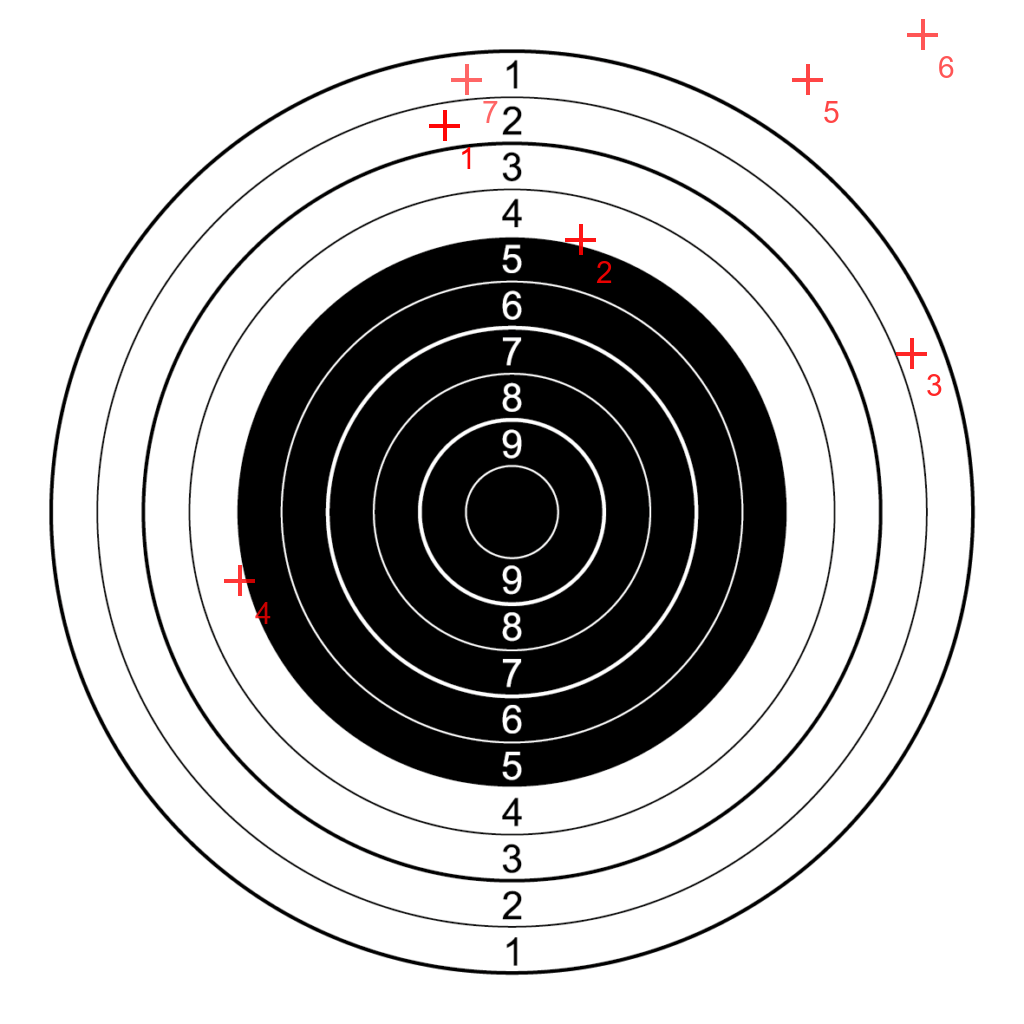
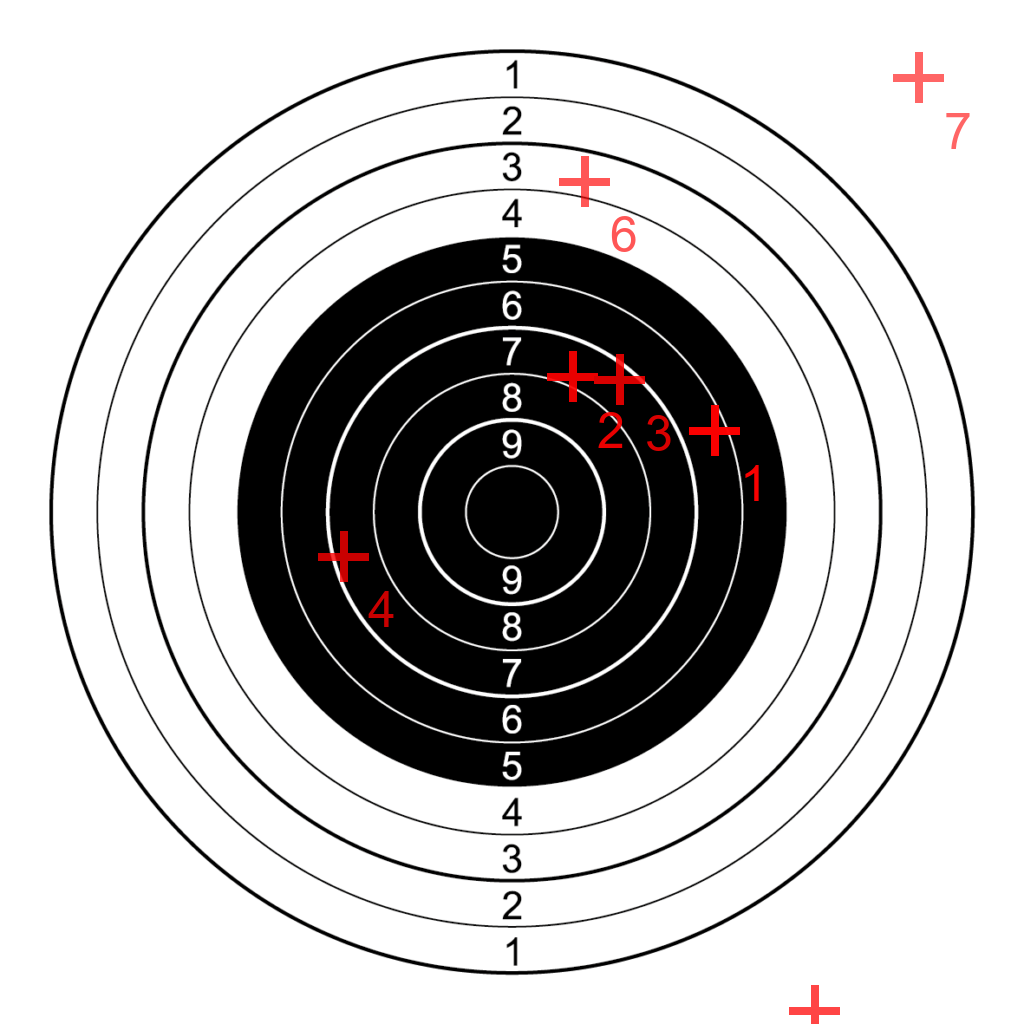
simplification of update-target.js, adding credits.html, upgrade of the write-target function (best visibility)

diff --git a/static/js/update-target.js b/static/js/update-target.js
@@ -6,69 +6,25 @@ function refreshTargetImage() {
         return;
     }
 
-    // Conserver l'ancienne src (pour restauration en cas d'erreur)
-    const previousSrc = imgElement.src || null;
+    const targetNumber = 1;
+    const timestamp = Date.now();
+    const refreshUrl = `/api/render_target?target_number=${targetNumber}&_=${timestamp}`;
+    const imageUrl = `/static/target${targetNumber}.png?_=${timestamp}`;
 
-    // Ajout d'un timestamp pour éviter le cache navigateur
-    const url = '/api/render_target?target_number=1&_=' + Date.now();
-
-    fetch(url)
+    fetch(refreshUrl, { cache: 'no-store' })
         .then(response => {
             if (!response.ok) {
                 throw new Error('Erreur serveur: ' + response.status);
             }
-            const contentType = response.headers.get('content-type') || '';
-            if (!contentType.startsWith('image/')) {
-                return response.text().then(text => {
-                    throw new Error('Réponse non-image (' + contentType + '): ' + text.slice(0, 200));
-                });
-            }
-            return response.blob();
+            return response.text();
         })
-        .then(blob => {
-            if (!blob || blob.size === 0) {
-                throw new Error('Blob d\'image vide');
-            }
-
-            const newObjectURL = URL.createObjectURL(blob);
-
-            // Attacher des handlers pour gérer le succès / échec de chargement
-            function onLoad() {
-                // Après chargement réussi, révoquer l'ancienne blob URL si elle existait
-                if (previousSrc && previousSrc.startsWith('blob:') && previousSrc !== newObjectURL) {
-                    try { URL.revokeObjectURL(previousSrc); } catch (e) { /* ignore */ }
-                }
-                imgElement.removeEventListener('load', onLoad);
-                imgElement.removeEventListener('error', onError);
-            }
-
-            function onError() {
-                // Si l'image ne charge pas, révoquer la nouvelle URL et restaurer l'ancienne src si possible
-                try { URL.revokeObjectURL(newObjectURL); } catch (e) { /* ignore */ }
-                if (previousSrc) {
-                    imgElement.src = previousSrc;
-                } else {
-                    imgElement.removeAttribute('src');
-                }
-                imgElement.removeEventListener('load', onLoad);
-                imgElement.removeEventListener('error', onError);
-                console.error('Échec du chargement de l\'image depuis le blob');
-            }
-
-            imgElement.addEventListener('load', onLoad);
-            imgElement.addEventListener('error', onError);
-
-            // Déclencher le changement de source
-            imgElement.src = newObjectURL;
+        .then(() => {
+            imgElement.src = imageUrl;
         })
         .catch(error => {
             console.error('Échec du rafraîchissement:', error);
-            // En cas d'erreur de fetch/parse, ne pas enlever l'ancienne image
         });
 }
 
-// Lancement immédiat
 refreshTargetImage();
-
-// Rafraîchissement toutes les 5 secondes
 setInterval(refreshTargetImage, 5000);

diff --git a/static/style.css b/static/style.css
@@ -21,7 +21,7 @@ nav li {
     list-style-type: none;
     font-size: 1.5em;
     color: white;
-    margin-right: 10px;
+    margin-right: 20px;
     margin-bottom: 50px;
     width:80%;
     border-bottom: solid 1px white ;
@@ -46,17 +46,28 @@ div.content{
     display: flex;
     flex-direction: column;
     align-items: center;
-    justify-content: center;
+    justify-content: start;
     height: 100vh;
     padding: 50px;
 }
+
+div.content h1{
+    font-size: 3em;
+    margin-bottom: 20px;
+    text-decoration:underline;
+}
+
+div.content img{
+    background-color: #616161;
+}
+
 img.target{
     width: 400px;
     height: 400px;
     object-fit: cover;
     border-radius: 20px;
 }
-div.target-container{
+div.container{
     display: flex;
     flex-direction: column;
     align-items: center;
@@ -65,4 +76,16 @@ div.target-container{
     background-color: #4a4a4a;
     padding: 20px;
     border-radius: 10px;
+    animation: fadeInUp 1s ease-in-out;
+}
+
+@keyframes fadeInUp {
+  0% {
+    transform: translateY(50%);
+    opacity: 0;
+  }
+  100% {
+    transform: translateY(0);
+    opacity: 1;
+  }
 }

diff --git a/templates/target.html b/templates/target.html
@@ -4,6 +4,7 @@
     <meta charset="UTF-8">
     <meta name="viewport" content="width=device-width, initial-scale=1.0">
     <link rel="stylesheet" href="{{ url_for('static', filename='style.css') }}">
+    <link rel="shortcut icon" href="{{ url_for('static', filename='favicon.ico') }}">
     <script src="{{ url_for('static', filename='js/update-target.js') }}"></script>
     <title>Target Display | Target</title>
 </head>
@@ -13,14 +14,14 @@
             <li><a href="/"><strong>Home</strong></a></li>
             <li><a href="">Target</a></li>
             <li><a href="">Statistics</a></li>
-            <li><a href="">Credits</a></li>
+            <li><a href="/credits">Credits</a></li>
         </ul>
     </nav>
 
     <div class="content">
         <h1>Target Display</h1>
 
-            <div class="target-container">
+            <div class="target-container container">
                 <h2>Target 1</h2>
                 <img src="{{ url_for('static', filename='target1.png') }}" alt="Target 1" class="target">
             </div>

diff --git a/random_shot.py b/random_shot.py
@@ -1,0 +1,13 @@
+import random
+
+def random_shot(num_shots=1):
+    """
+    Generate a list of random shot coordinates.
+    Each coordinate is a tuple (x, y) where x and y are integers between 0 and 1000.
+    """
+    shots = []
+    for _ in range(num_shots):
+        x = random.randint(0, 1000)
+        y = random.randint(0, 1000)
+        shots.append((x, y))
+    return shots

diff --git a/app_routes.py b/app_routes.py
@@ -9,3 +9,7 @@ def home():
 @routes.route('/target')
 def target():
     return render_template('target.html')
+
[email redacted]('/credits')
+def credits():
+    return render_template('credits.html')

diff --git a/write_target.py b/write_target.py
@@ -5,7 +5,7 @@
 
 from PIL import Image, ImageDraw, ImageFont
 
-def write_target(image_path, position, result_path, base_color = (255, 0, 0), color_one = (255,255,0), size = 15, thickness = 4):
+def write_target(image_path, position, result_path, base_color = (255, 0, 0), color_one = (255,255,0), size = 25, thickness = 8):
     """
     Overwrite the target image with the position on shots.
     The position is a list of tuples (x, y) representing the coordinates of the shots. x and y must be 0-1000 pixels.
@@ -32,7 +32,7 @@ def write_target(image_path, position, result_path, base_color = (255, 0, 0), co
 
 
     try :
-        fnt = ImageFont.truetype("assets/font.ttf",30)
+        fnt = ImageFont.truetype("assets/font.ttf",size*2)
     except Exception as e:
         fnt = ImageFont.load_default()
         print("Warning: font not found, using default",f"({e})")

diff --git a/app_api.py b/app_api.py
@@ -1,5 +1,6 @@
 from flask import Blueprint, request
 from write_target import write_target
+from random_shot import random_shot
 
 api = Blueprint('api', __name__,template_folder='templates')
 
@@ -8,7 +9,7 @@ def render_target():
     if request.method == 'GET':
         target_number = request.args['target_number']
 
-        write_target("assets/template.png", [(434,123),(567,234),(890,345),(234,567),(789,78),(901,34),(456,78)], f"static/target{target_number}.png")
+        write_target("assets/template.png", random_shot(7), f"static/target{target_number}.png")
         return f"Target {target_number} written"
     else:
         return "Method not allowed"

diff --git a/app.py b/app.py
@@ -3,7 +3,7 @@
 # Last update : 15.07.2026
 # Description : file who init the project and the web server. Run this file to start the project.
 
-from flask import Flask, render_template
+from flask import Flask
 
 from app_api import api
 from app_routes import routes